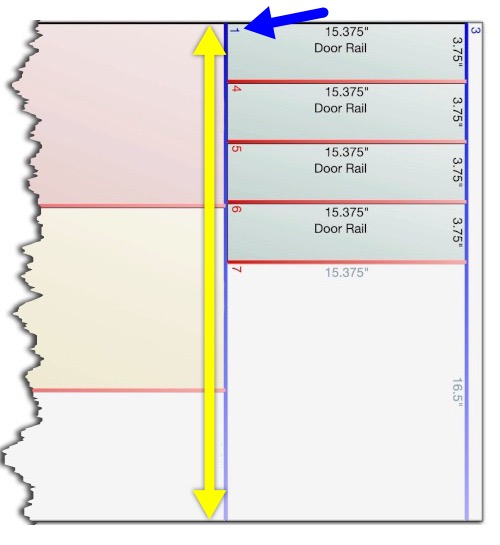
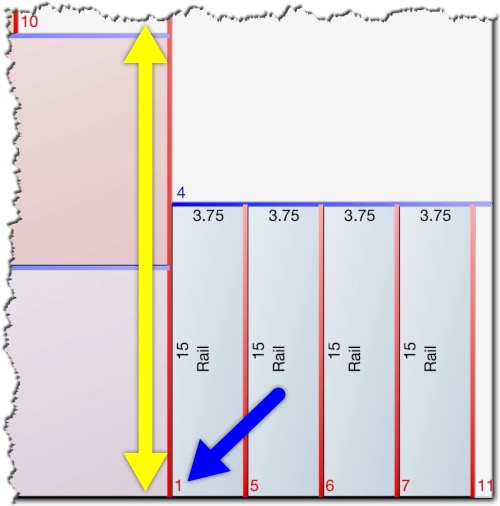
cutlist optimizer changes

diff --git a/_posts/2019/08/2019-08-14-cutlist-optimizer.md b/_posts/2019/08/2019-08-14-cutlist-optimizer.md
@@ -2,6 +2,10 @@
 title: "CutList Optimizer"
 layout: post
 permalink: "/articles/cutlistoptimizer/"
+redirect_from:
+  - "/cutlistoptimizer/"
+  - "/CutListOptimizer"
+  - "/CutlistOptimizer"
 category: article
 article-image: "/assets/images-posts/2019/08/2019-08-14.1.05.jpg"
 article-description: "CutList Optimizer is a great website for generating cut lists. This articles explains how to use the site."
@@ -19,8 +23,8 @@ You can save the cut list as a PDF file. [Click here for a simple sample](/asset
 
 <p id="top-note" class="panel-warning" markdown="1">NOTE: Websites change all the time. As far as I know, this information was accurate as of **2019-08-15**. If something significant changes, I'll try to keep this updated.<br/><br/>
 
-**Update History:**<br/><br/>
-
+**Update History:**<br/>
+**2019-08-16:** Re-did the [Simple Example](#simple-example) section to make it a little more clear.<br/>
 **2019-08-15:** Changes to the [Error Messages / Bugs](#-error-messages-bugs) section to clarify that the error messages may in fact be legitimate.
 </p>
 
@@ -63,8 +67,6 @@ The third option generates numbers for the order of the cuts. I'll explain more 
 
 {:style="clear: left"}
 
-Also, you'll see a column called "Material" in the pics below, but it's not enabled by default. More on that later, too.
-
 <hr style="margin-bottom: 40px"/>
 
 ![](/assets/images-posts/2019/08/2019-08-14.1.02.jpg){: .image-border}{: .align-left}
@@ -77,7 +79,7 @@ And here's the stock you want to cut them from.
 
 {:style="clear: left"}
 
-![](/assets/images-posts/2019/08/2019-08-14.1.09.jpg){: .image-border}{: .align-left}
+![](/assets/images-posts/2019/08/2019-08-14.1.09.jpg){: width="500px"}{: .image-border}{: .align-left}
 After you enter the above information, click the "Calculate" button, and it generates the cut list.
 
 <p style="clear: left"> </p>
@@ -94,10 +96,8 @@ So let's break down what we get.
 
 #### The "Cuts" Panel
 
-![](/assets/images-posts/2019/08/2019-08-14.1.06.jpg){: .image-border}{: .align-left}
+![](/assets/images-posts/2019/08/2019-08-14.1.06.jpg){: width="300px"}{: .image-border}{: .align-left}
 The "Cuts" panel shows the cuts you need to make.
-
-I had selected the "Cuts order" option, so these are numbered in the best order to make the cuts.
 
 {:style="clear: left"}
 
@@ -105,19 +105,32 @@ I had selected the "Cuts order" option, so these are numbered in the best order 
 
 ![](/assets/images-posts/2019/08/2019-08-14.1.07.jpg){: .image-border}{: .align-left}
 
-This is the cut sheet, rotated onto its side. Each of the cuts are numbered to match the numbers in the Cuts panel (above).
+This is the cut sheet. Each of the cuts are numbered to match the numbers in the Cuts panel (above).
 
 {:style="clear: left"}
 
+![](/assets/images-posts/2019/08/2019-08-14.1.25.jpg){: .image-border}{: .align-left}
+If you put your mouse over the first cut (**A**), it shows you where the first cut is (**B**).
+
+And of course you can mouse over the other cuts too.
+
+{:style="clear: left"}
+
+
+
 ![](/assets/images-posts/2019/08/2019-08-14.1.08.jpg){: .image-border}{: .align-left}
-#1 is the first cut. The number is blue, and it's right on top of the blue line that goes across the stock. So that's the first cut.
+This is the bottom right of the cut sheet.
+
+#1 is the first cut. The red number is right next to the red cut line.
 
 {:style="clear: left"}
 
 ![](/assets/images-posts/2019/08/2019-08-14.1.10.jpg){: .image-border}{: .align-left}
-Then cut #2, which is along the blue line.
+This is the bottom left of the cut sheet.
 
-And continue along like that.
+#2 is the second cut, and the blue number is right next to the blue cut line.
+
+And it continues like that.
 
 {:style="clear: left"}
 
@@ -135,7 +148,9 @@ I've got 38 pieces, from three different materials:
 
 <p>● Plywood 3/4"<br/>● Plywood 1/4"<br/>● Pine</p>
 
-I actually don't recommend doing this - it's probably easier to do one material type at a time. But this makes a good demo, anyway.
+I've got the option for "Consider Material" turned on, so each piece can come from a different material.<br/>(See ["Settings"](#settings), below.)
+
+I actually don't recommend doing this because it makes "Calculate" take a long time. It's probably better to do one material type at a time.
 
 {:style="clear: left"}
 
